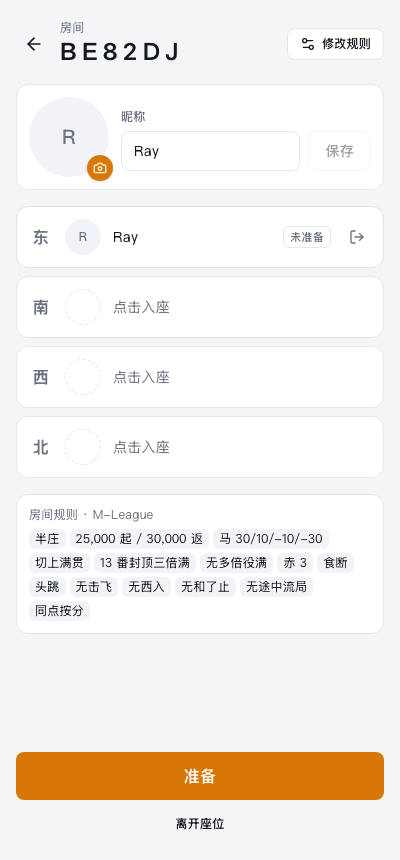
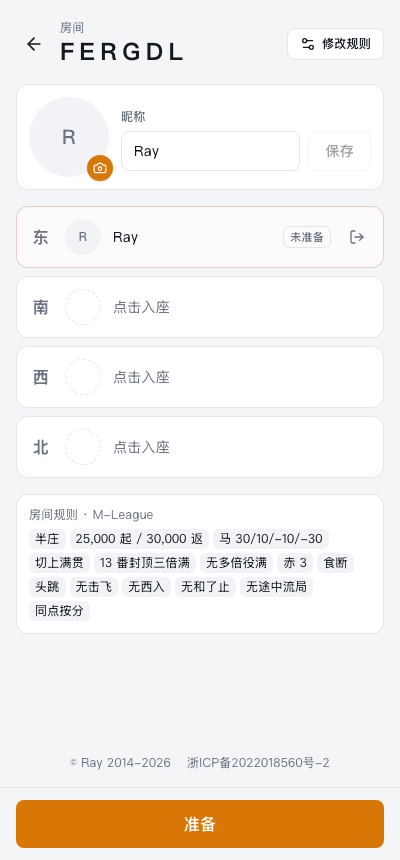
feat(lobby): 手机大厅删「离开座位」按钮，准备按钮贴底，滚动内容末尾加版权与备案号
点自己的座位卡即离座、点空座即换座，单独的离座按钮多余。README 截图同步。

Changed region(s): [[0.03, 0.8767, 0.96, 0.9977], [0.18, 0.0302, 0.45, 0.0907]]

diff --git a/apps/web/src/features/lobby/PhoneLobby.tsx b/apps/web/src/features/lobby/PhoneLobby.tsx
@@ -9,6 +9,7 @@ import { useCommand } from "@/ws/useRoom";
 import { ProfileEditor } from "@/features/profile/ProfileEditor";
 import { RulesEditor, RulesSummary } from "@/features/rules/RulesEditor";
 import { useMirror } from "@/features/settlement/useMirror";
+import { SiteFooter } from "@/features/site/SiteFooter";
 import { SeatCards } from "./SeatCards";
 import { useCountdown } from "./useCountdown";
 
@@ -28,7 +29,7 @@ export function PhoneLobby({ room, mySeat }: { room: RoomView; mySeat: Seat | nu
   };
 
   return (
-    <div className="mx-auto flex min-h-dvh max-w-md flex-col gap-4 px-4 py-5">
+    <div className="mx-auto flex min-h-dvh max-w-md flex-col gap-4 px-4 pt-5">
       <div className="flex items-center justify-between">
         <div className="flex items-center gap-2">
           <Button variant="ghost" size="icon" aria-label="退出房间" onClick={exit}>
@@ -76,33 +77,28 @@ export function PhoneLobby({ room, mySeat }: { room: RoomView; mySeat: Seat | nu
         <RulesSummary rules={room.rules} />
       </div>
 
-      <div className="mt-auto space-y-2">
-        {mySeat !== null && (
-          <Button
-            size="lg"
-            variant={ready ? "outline" : "accent"}
-            className="w-full"
-            onClick={() => send({ type: "setReady", seat: mySeat, ready: !ready })}
-          >
-            {ready ? "取消准备" : "准备"}
-          </Button>
-        )}
-        {mySeat !== null && (
-          <Button
-            size="sm"
-            variant="ghost"
-            className="w-full"
-            onClick={() => send({ type: "leave", seat: mySeat })}
-          >
-            离开座位
-          </Button>
-        )}
-        {full && room.ready.every(Boolean) && (
-          <p className="text-center text-sm text-muted">
-            {countdown !== null ? `${countdown} 秒后自动开局…` : "全员已准备，等待主控台开局…"}
-          </p>
-        )}
-      </div>
+      <SiteFooter className="mt-auto justify-center" />
+
+      {/* 准备按钮与开局提示贴在屏幕底部，内容多时页面在它上方滚动；换座直接点别的座位 */}
+      {(mySeat !== null || (full && room.ready.every(Boolean))) && (
+        <div className="sticky bottom-0 -mx-4 space-y-2 border-t border-border bg-bg/95 px-4 pt-3 pb-[max(0.75rem,env(safe-area-inset-bottom))] backdrop-blur">
+          {mySeat !== null && (
+            <Button
+              size="lg"
+              variant={ready ? "outline" : "accent"}
+              className="w-full"
+              onClick={() => send({ type: "setReady", seat: mySeat, ready: !ready })}
+            >
+              {ready ? "取消准备" : "准备"}
+            </Button>
+          )}
+          {full && room.ready.every(Boolean) && (
+            <p className="text-center text-sm text-muted">
+              {countdown !== null ? `${countdown} 秒后自动开局…` : "全员已准备，等待主控台开局…"}
+            </p>
+          )}
+        </div>
+      )}
 
       <Dialog open={rulesOpen} onOpenChange={setRulesOpen}>
         <DialogContent title="房间规则" description="开局前所有人都可修改；开局后锁定。">

diff --git a/e2e/shots.spec.ts b/e2e/shots.spec.ts
@@ -39,6 +39,7 @@ test("截图：番符表与主控台", async ({ browser }) => {
       // 手机大厅：自己已入座 + 三个空座；规则对话框滚到中段时底栏可见
       await p.getByTestId("seat-0").getByText("Ray").waitFor();
       await p.screenshot({ path: `${OUT}/phone-lobby.png`, fullPage: true });
+      await p.screenshot({ path: `${OUT}/phone-lobby-viewport.png` });
       await p.getByRole("button", { name: "修改规则" }).click();
       await p.getByRole("dialog").getByText("终局", { exact: true }).scrollIntoViewIfNeeded();
       await p.screenshot({ path: `${OUT}/phone-rules-dialog.png` });
